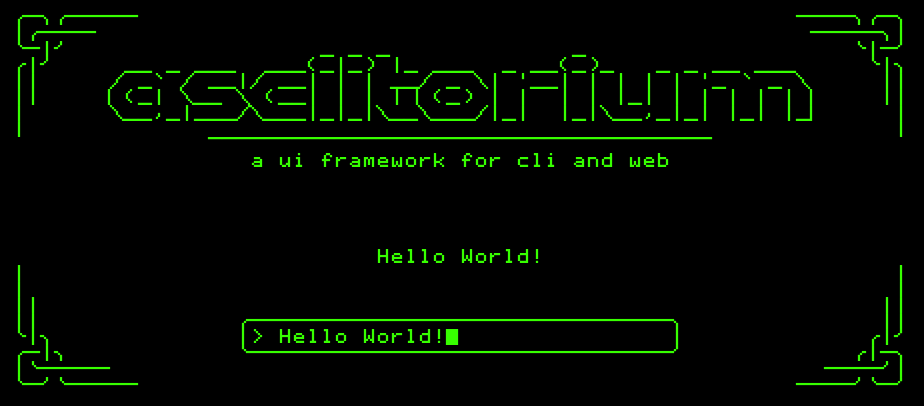
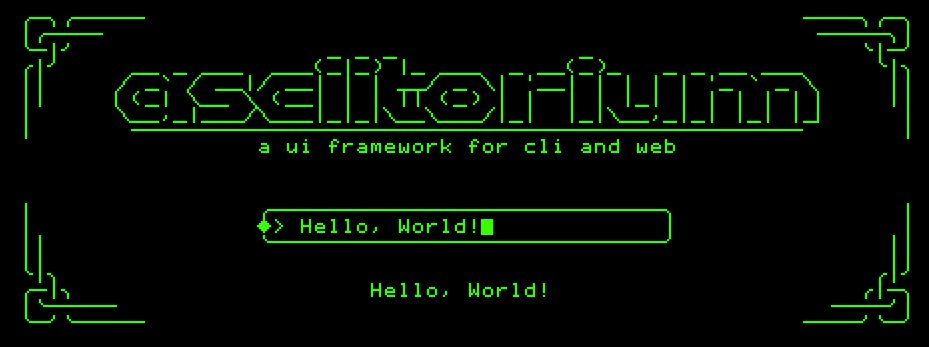
publishing

diff --git a/packages/asciitorium/src/demo.tsx b/packages/asciitorium/src/demo.tsx
@@ -1,6 +1,5 @@
 import { AsciiArt } from './components/AsciiArt';
 import { Box } from './components/Box';
-import { PerfMonitor } from './components/PerfMonitor';
 import { Text } from './components/Text';
 import { HorizontalLine } from './components/HorizontalLine';
 import { App } from './core/App';
@@ -10,7 +9,7 @@ import { TextInput } from './components/TextInput';
 import { CelticBorder } from './components/CelticBorder';
 
 const appWidth = 64;
-const appHeight = 30;
+const appHeight = 20;
 
 const helloWorld = new State('Hello, World!');
 
@@ -31,10 +30,9 @@ const app = (
       <Text value="a ui framework for cli and web" align="top" gap={3} />
     </Box>
 
-    <TextInput label="TextInput:" width={30} value={helloWorld} gap={2} align="center" />
+    <TextInput width={30} value={helloWorld} gap={5} align="bottom" />
 
-    <Text value={helloWorld} width={appWidth - 24} align="bottom" gap={8} />
-    <PerfMonitor align="bottom-right" gap={1} time memory fps cpu />
+    <Text value={helloWorld} width={24} align="bottom" gap={2} />
   </App>
 );
 

diff --git a/README.md b/README.md
@@ -1,8 +1,39 @@
 # asciitorium
 
-This mono-repo contains the source code for **asciitorium**, an ASCII-based ui framework that runs in both the web and cli, along with related tooling such as the `create-asciitorium` project scaffolder.
+**asciitorium** is an ASCII-based ui framework that runs in both the web and cli, along with related tooling such as the `create-asciitorium` project scaffolder.
 
 ![example](asciitorium.png)
+
+```jsx
+import { App, Box, Text, State, AsciiArt, TextInput, CelticBorder, HorizontalLine, loadAsciiAsset } from 'asciitorium';
+
+const helloWorld = new State('Hello, World!');
+
+// Load the title ASCII art
+const titleArt = await loadAsciiAsset('./art/asciitorium.txt');
+
+// Construct the app
+const app = (
+  <App width={64} height={20} layout="relaxed">
+    <CelticBorder edge="top-left" align="top-left" />
+    <CelticBorder edge="top-right" align="top-right" />
+    <CelticBorder edge="bottom-left" align="bottom-left" />
+    <CelticBorder edge="bottom-right" align="bottom-right" />
+
+    <Box align="top" layout="vertical" gap={2}>
+      <AsciiArt content={titleArt} align="top" />
+      <HorizontalLine length={48} align="center" />
+      <Text value="a ui framework for cli and web" align="top" gap={3} />
+    </Box>
+
+    <TextInput width={30} value={helloWorld} gap={5} align="bottom" />
+
+    <Text value={helloWorld} width={24} align="bottom" gap={2} />
+  </App>
+);
+
+await app.start();
+```
 
 ---
 
@@ -15,6 +46,7 @@ It uses `<pre>` blocks and styled spans in the browser, and a terminal renderer 
 Includes a custom JSX runtime so you can write components similar to React.
 
 **Installation:**
+
 ```bash
 npm install asciitorium
 ```
